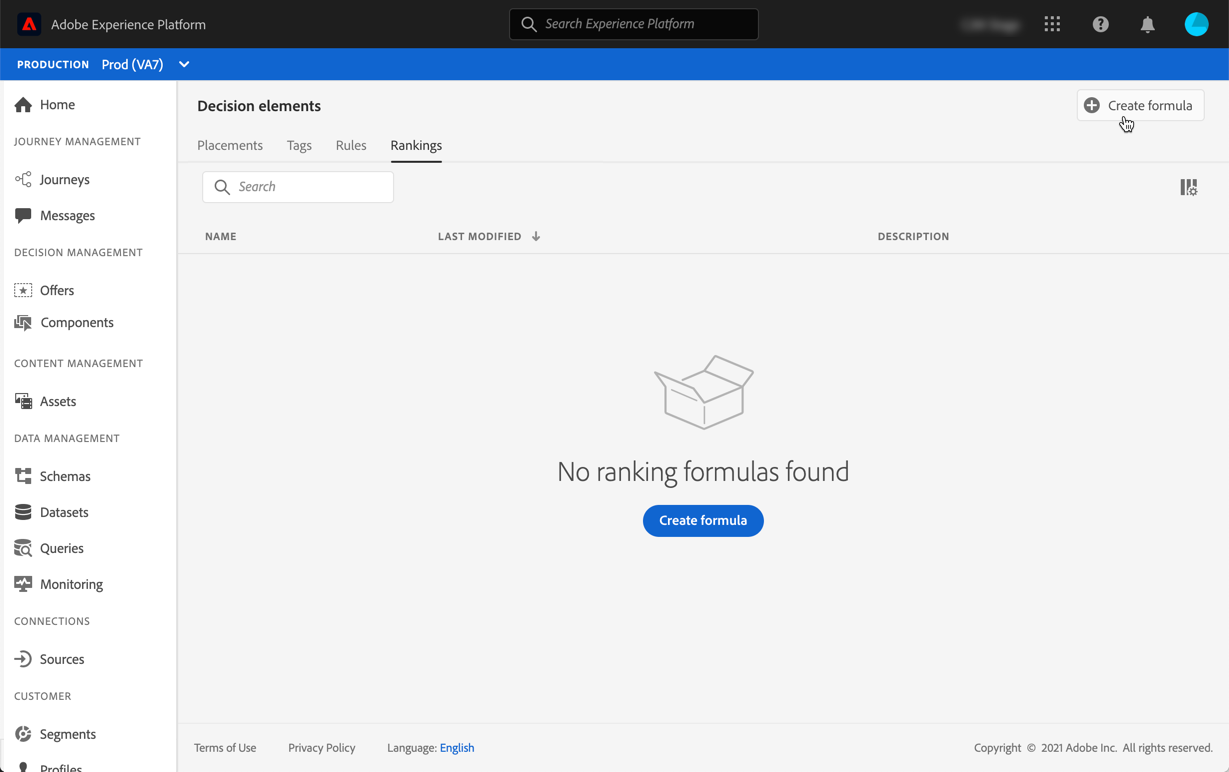
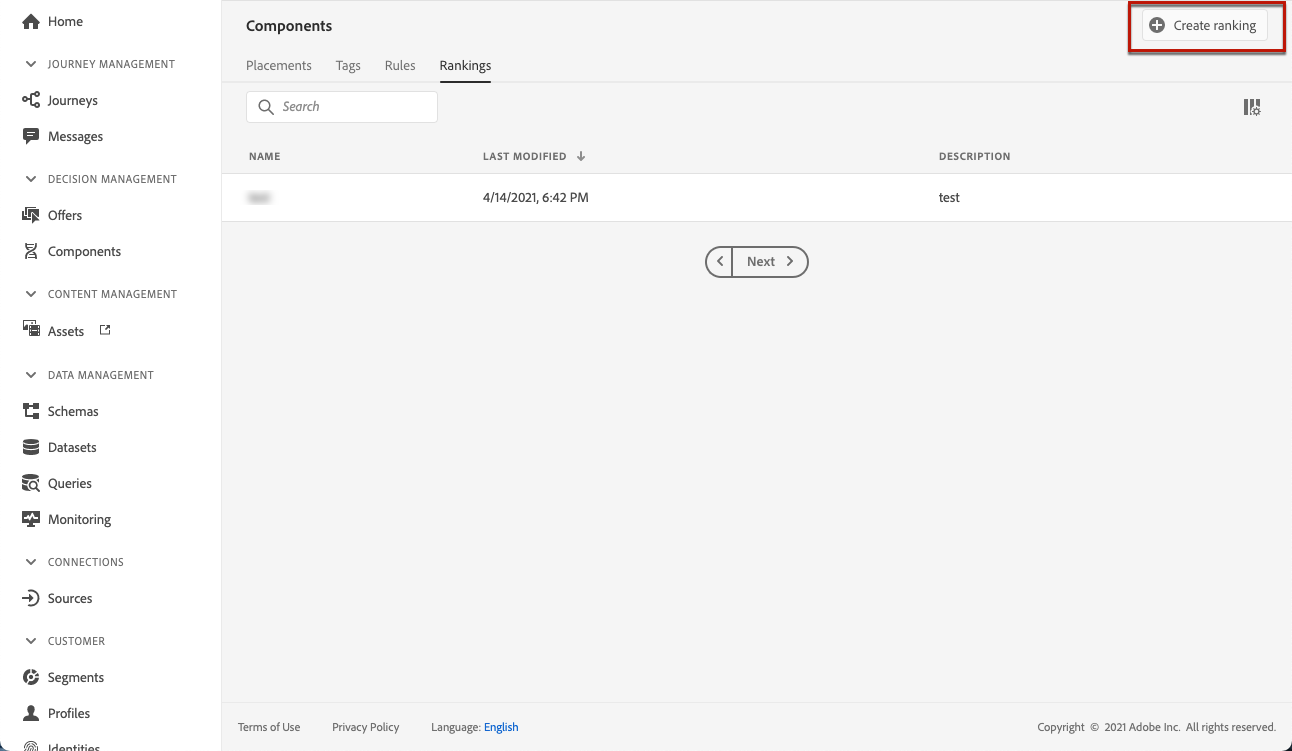
ranking updates

diff --git a/help/using/offers/offer-library/create-ranking-formulas.md b/help/using/offers/offer-library/create-ranking-formulas.md
@@ -16,19 +16,21 @@ Once a ranking formula has been created, you can assign it to a placement in a d
 
 To create a ranking formula, follow the steps below:
 
-* Access the **[!UICONTROL Components]** menu, then select the **[!UICONTROL Rankings]** tab.
+1. Access the **[!UICONTROL Components]** menu, then select the **[!UICONTROL Rankings]** tab. The list of rankings previously created is displayed.
 
-* Click **[!UICONTROL Create formula]** to create a new ranking formula.
+    ![](../../assets/rankings-list.png)
+
+1. Click **[!UICONTROL Create ranking]** to create a new ranking formula.
 
     ![](../../assets/ranking-create-formula.png)
 
-* Specify the ranking formula name, description, and formula. 
+1. Specify the ranking formula name, description, and formula. 
 
     In this example, we want to boost the priority of all offers with the "hot" attribute if the actual weather is hot. To do this, the **contextData.weather=hot** was passed in the decisioning call.
 
     ![](../../assets/ranking-syntax.png)
 
-* Click **[!UICONTROL Save]**. Your ranking formula is created, you can select it from the list to get details and edit or delete it.
+1. Click **[!UICONTROL Save]**. Your ranking formula is created, you can select it from the list to get details and edit or delete it.
 
     It is now ready to be used in a decision to rank eligible offers for a placement (see [Configure offers selection in decisions](../offer-activities/configure-offer-selection.md)).
 
